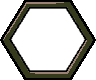
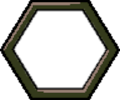
change cursor size

Changed region(s): [[0.0, 0.0, 1.0, 1.0]]

diff --git a/main.py b/main.py
@@ -93,7 +93,7 @@ class Main():
 		# terrain
 		self.display.blit(square.background, [1136, 436])
 		if square.infra:	self.display.blit(square.infra, [1136, 436])
-		self.display.blit(self.map.cursorGfx, [1136, 436])
+		self.display.blit(self.map.cursorGfx, [1124, 426])
 		if square.movementModifier != None:
 			self.display.blit(self.map.progressBar, [1460, 435], (0, 0, square.movementModifier * 30, 20))
 		else:
@@ -105,7 +105,8 @@ class Main():
 		self.display.blit(self.map.progressBar, [1460, 495], (0, 0, square.sightModifier * 30, 20))
 		# unit
 		if square.unit:
-			self.display.blit(square.unit.mapIcon, [1125, 540])
+			self.display.blit(square.unit.mapIcon, [1136, 546])
+			self.display.blit(self.map.cursorGfx, [1124, 536])
 			pygame.draw.rect(self.display, colors.almostBlack, (1124, 763, 662, 58), 4)							# weapons borders 1
 			pygame.draw.rect(self.display, colors.almostBlack, (1124, 871, 662, 58), 4)							# weapons borders 2
 			# weapons
@@ -124,7 +125,7 @@ class Main():
 					# name
 					nameText = font20.render(str(weapon.name), True, colors.grey, colors.almostBlack)
 					rNameText = ammoText.get_rect()
-					rNameText.topleft = (1420, yCoords[y] + 5)
+					rNameText.topleft = (11240, yCoords[y] + 5)
 					self.display.blit(nameText, rNameText)
 
 

diff --git a/level.py b/level.py
@@ -137,7 +137,7 @@ class Map(list):
 					image.blit(text, textRect)
 					self.parent.display.blit(image, [self.parent.viewDsp[0] + (y * 142 + forskydning), self.parent.viewDsp[1] + (x * 40)])
 		forskydning = 71 if (self.cursorPos[1] % 2) != 0 else 0
-		self.parent.display.blit(self.cursorGfx, [self.parent.viewDsp[0] + (self.cursorPos[0] * 142 + forskydning), self.parent.viewDsp[1] + (self.cursorPos[1] * 40)])
+		self.parent.display.blit(self.cursorGfx, [self.parent.viewDsp[0] + (self.cursorPos[0] * 142 + forskydning) -12, self.parent.viewDsp[1] + (self.cursorPos[1] * 40) - 10])
 		# window borders
 		pygame.draw.rect(self.parent.display, colors.almostBlack, (0, 0, 1800, 1000), 4)							# window border
 		pygame.draw.rect(self.parent.display, colors.almostBlack, (15, 15, 1098, 968), 4)								# map border (main map = 1098 / 968)
